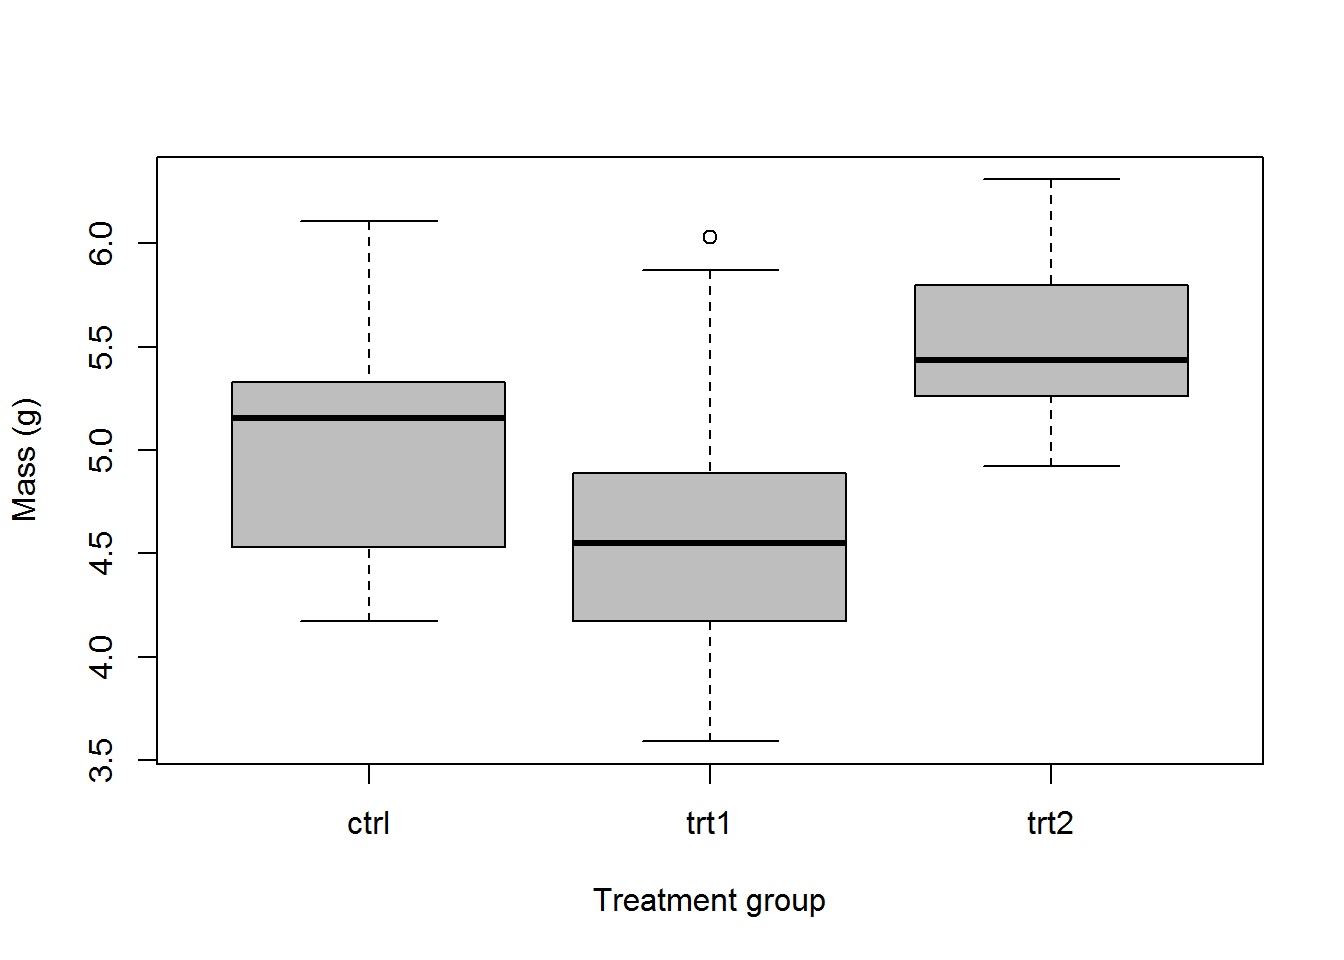
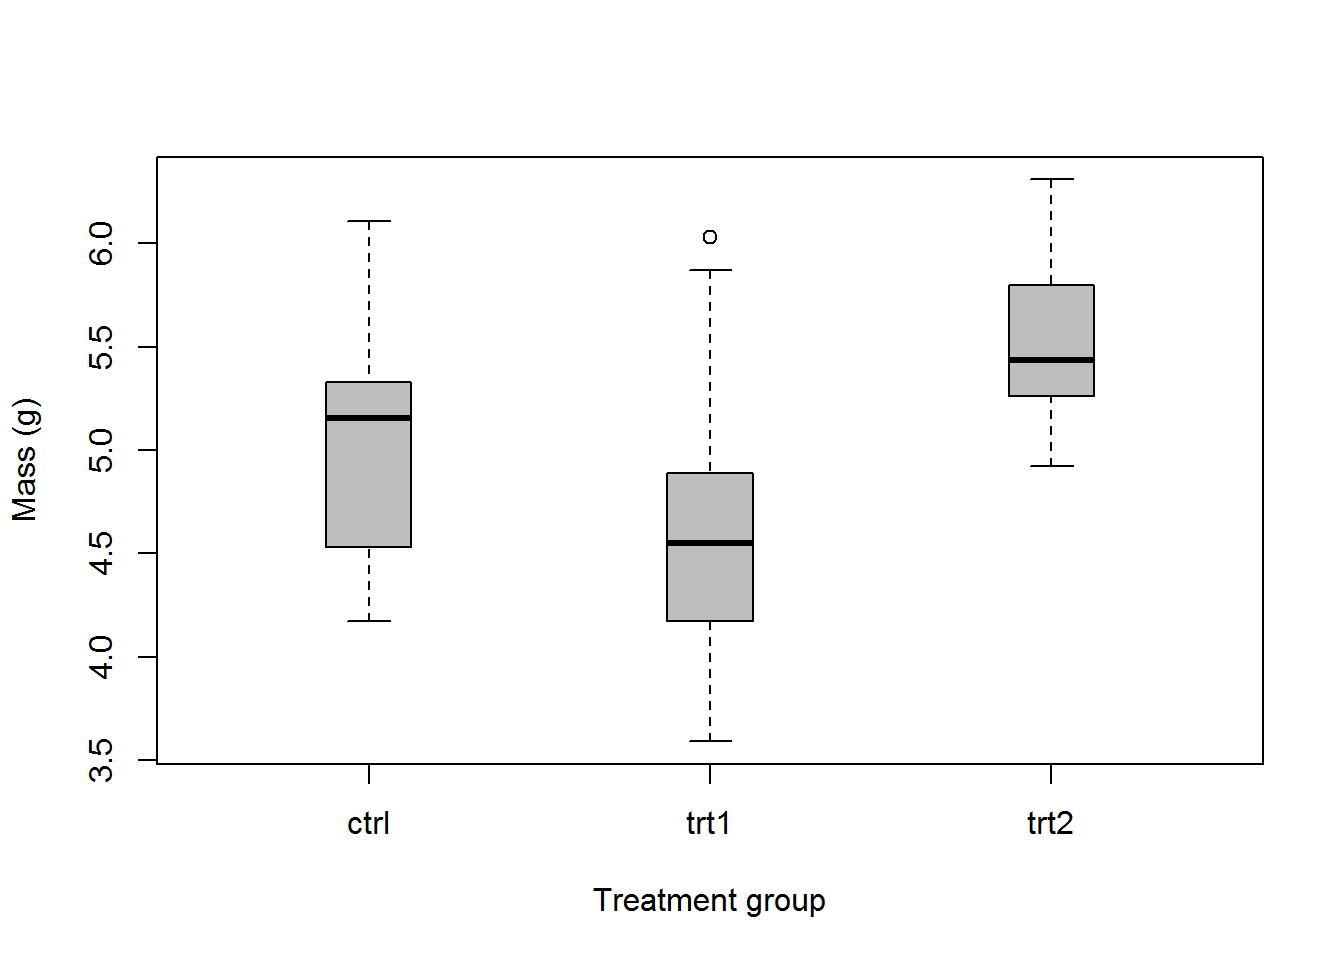
update PlantGrowth boxplot

diff --git a/stich/classes/BIOL678/04_linearModels.html b/stich/classes/BIOL678/04_linearModels.html
@@ -386,11 +386,12 @@ trt2<span class="op">-</span>trt1  <span class="fl">0.865</span>  <span class="f
 <div class="sourceCode"><pre class="sourceCode r"><code class="sourceCode r"><span class="co"># Make a boxplot of weight by group</span>
 <span class="co"># using the PlantGrowth data</span>
 <span class="kw">boxplot</span>(
-  weight<span class="op">~</span>group,          <span class="co"># Relationship of interest as formula</span>
-  <span class="dt">data=</span>PlantGrowth,      <span class="co"># Name of the data set</span>
-  <span class="dt">col=</span><span class="st">&#39;gray&#39;</span>,            <span class="co"># Fill color for boxes</span>
-  <span class="dt">ylab=</span><span class="st">&#39;Mass (g)&#39;</span>,       <span class="co"># Y-axis label</span>
-  <span class="dt">xlab=</span><span class="st">&#39;Treatment group&#39;</span> <span class="co"># X-axis label</span>
+  weight<span class="op">~</span>group,           <span class="co"># Relationship of interest as formula</span>
+  <span class="dt">data=</span>PlantGrowth,       <span class="co"># Name of the data set</span>
+  <span class="dt">col=</span><span class="st">&#39;gray&#39;</span>,             <span class="co"># Fill color for boxes</span>
+  <span class="dt">ylab=</span><span class="st">&#39;Mass (g)&#39;</span>,        <span class="co"># Y-axis label</span>
+  <span class="dt">xlab=</span><span class="st">&#39;Treatment group&#39;</span>, <span class="co"># X-axis label</span>
+  <span class="dt">boxwex=</span>.<span class="dv">25</span>
   )</code></pre></div>
 <p><img src="04_linearModels_files/figure-html/unnamed-chunk-8-1.png" width="672" /></p>
 <p>In addition to what we wrote before, we can now say something along the lines of:</p>
